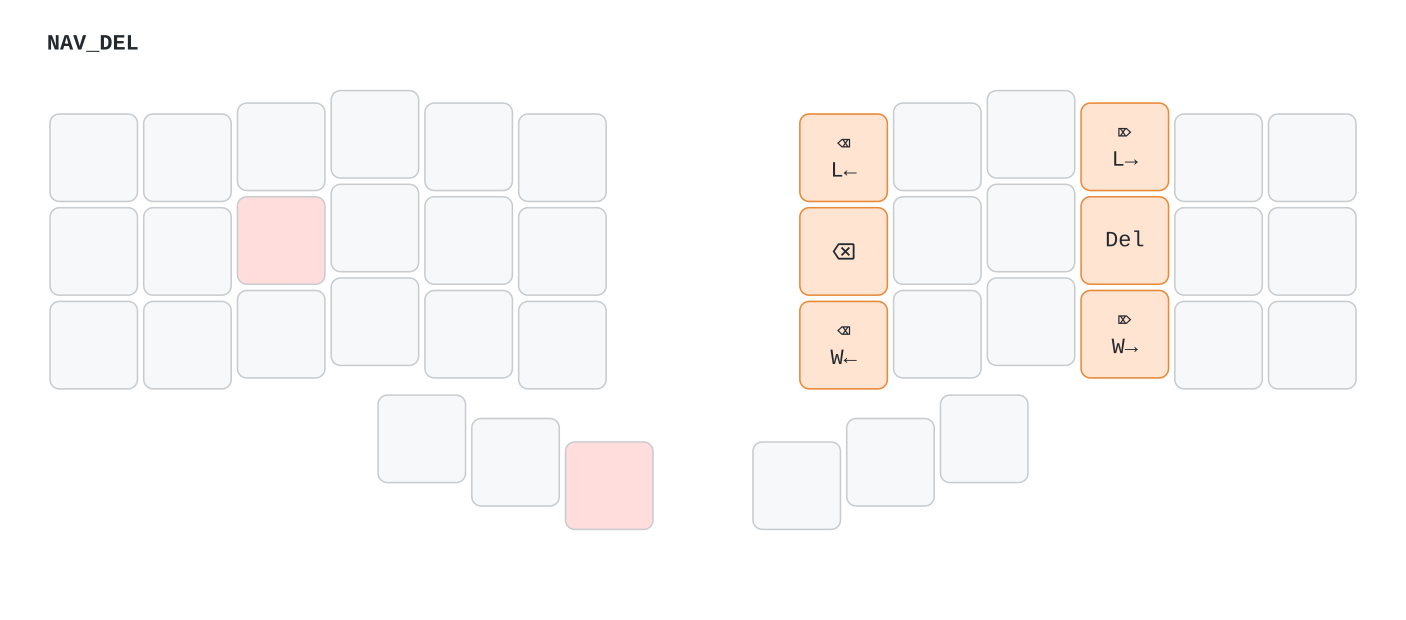
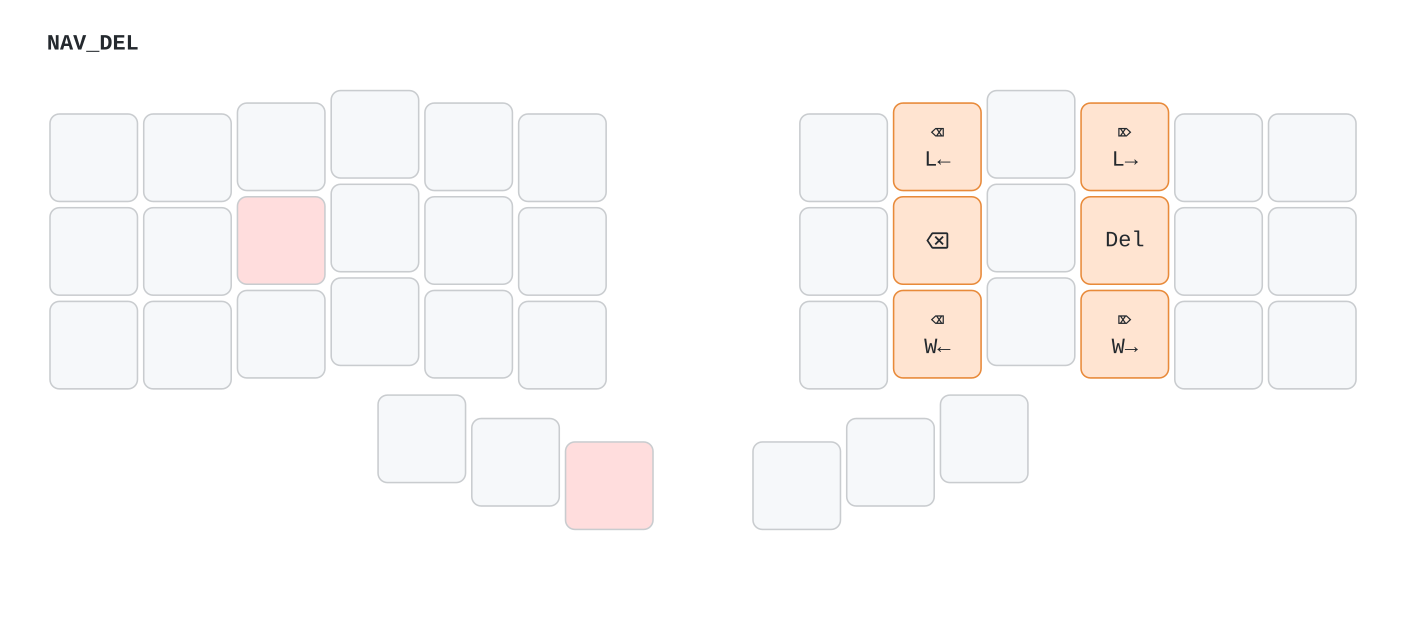
revamp the FAVS layer to reduce strain while navigating

Changed region(s): [[0.5505, 0.1532, 0.7034, 0.6435]]

diff --git a/keyboards/6x3_3/keymaps/crafted/keymap.c b/keyboards/6x3_3/keymaps/crafted/keymap.c
@@ -187,12 +187,13 @@ const uint16_t PROGMEM keymaps[][MATRIX_ROWS][MATRIX_COLS] = {
     ),
      /*
       * FAVS Layer (Layer 2) - Favorite shortcuts and navigation
+      * WASD-style inverted-T arrows; magnitude grows away from home row (line above, word below)
       * ┌───┬───┬───┬───┬───┬───┐       ┌───┬───┬───┬───┬───┬───┐
-      * │   │   │   │   │   │   │       │L← │D↓ │D↑ │L→ │   │   │
+      * │   │   │   │   │   │   │       │PgU│L← │ ↑ │L→ │   │   │
       * ├───┼───┼───┼───┼───┼───┤       ├───┼───┼───┼───┼───┼───┤
-      * │Esc│Lck│Dl⊙│G/C│Sl⊙│SWn│       │ ← │ ↓ │ ↑ │ → │Ent│Del│
+      * │Esc│Lck│Dl⊙│G/C│Sl⊙│SWn│       │PgD│ ← │ ↓ │ → │Ent│Del│
       * ├───┼───┼───┼───┼───┼───┤       ├───┼───┼───┼───┼───┼───┤
-      * │   │Udo│Cut│Cpy│Pst│   │       │W← │PgD│PgU│W→ │   │   │
+      * │   │Udo│Cut│Cpy│Pst│   │       │   │W← │   │W→ │   │   │
       * └───┴───┴───┴───┴───┴───┘       └───┴───┴───┴───┴───┴───┘
       *               ┌───┐                   ┌───┐
       *               │   ├───┐           ┌───┤   │
@@ -203,13 +204,13 @@ const uint16_t PROGMEM keymaps[][MATRIX_ROWS][MATRIX_COLS] = {
       * Lck=Layer Lock (keep FAVS without holding the thumb)
       * Sl⊙=Select latch: tap to hold Shift until FAVS is released (or tap again/Esc)
       * Dl⊙=Delete hold: momentary NAV_DEL sub-layer (hold-only, destructive op)
-      * L←=Line Begin, L→=Line End, D↑=Doc Begin, D↓=Doc End
-      * W←=Word Left, W→=Word Right
+      * L←=Line Begin, L→=Line End, W←=Word Left, W→=Word Right
+      * PgU/PgD=vertical pair on inner column (doc begin/end dropped)
       */
     [FAVS] = LAYOUT_split_3x6_3(
-        KC_NO,   KC_NO,   KC_NO,   KC_NO,   KC_NO,   KC_NO,                              SK_LINEBEG, SK_DOCEND, SK_DOCBEG, SK_LINEEND, KC_NO,   KC_NO,
-        KC_ESC,  QK_LLCK, MO(NAV_DEL), MM_GUICTRL, SEL_LATCH, SW_WIN,                    KC_LEFT, KC_DOWN, KC_UP,   KC_RGHT, KC_ENT,  KC_DEL,
-        KC_NO,   SK_UNDO, SK_CUT,  SK_COPY, SK_PSTE, KC_NO,                              SK_WORDPRV, KC_PGDN, KC_PGUP, SK_WORDNXT, KC_NO,   KC_NO,
+        KC_NO,   KC_NO,   KC_NO,   KC_NO,   KC_NO,   KC_NO,                              KC_PGUP, SK_LINEBEG, KC_UP, SK_LINEEND, KC_NO,   KC_NO,
+        KC_ESC,  QK_LLCK, MO(NAV_DEL), MM_GUICTRL, SEL_LATCH, SW_WIN,                    KC_PGDN, KC_LEFT, KC_DOWN, KC_RGHT, KC_ENT,  KC_DEL,
+        KC_NO,   SK_UNDO, SK_CUT,  SK_COPY, SK_PSTE, KC_NO,                              KC_NO,   SK_WORDPRV, KC_NO, SK_WORDNXT, KC_NO,   KC_NO,
                                             KC_NO,   KC_NO,   KC_NO,                  KC_NO,   KC_LSFT, KC_NO
     ),
      /*
@@ -240,20 +241,20 @@ const uint16_t PROGMEM keymaps[][MATRIX_ROWS][MATRIX_COLS] = {
       * NAV_DEL Layer (Layer 4) - Deletion sub-layer, active only while Dl⊙ is held on FAVS
       * Vim-like operator grammar: row = granularity, each deletion sits on the motion it consumes
       * ┌───┬───┬───┬───┬───┬───┐       ┌───┬───┬───┬───┬───┬───┐
-      * │   │   │   │   │   │   │       │DlB│ ▽ │ ▽ │DlE│   │   │  line: delete to begin/end
+      * │   │   │   │   │   │   │       │ ▽ │DlB│ ▽ │DlE│   │   │  line: delete to begin/end
       * ├───┼───┼───┼───┼───┼───┤       ├───┼───┼───┼───┼───┼───┤
-      * │ ▽ │ ✗ │(▽)│ ✗ │ ✗ │ ▽ │       │Bsp│ ▽ │ ▽ │Del│ ▽ │ ▽ │  char: backspace/delete
+      * │ ▽ │ ✗ │(▽)│ ✗ │ ✗ │ ▽ │       │ ▽ │Bsp│ ▽ │Del│ ▽ │ ▽ │  char: backspace/delete
       * ├───┼───┼───┼───┼───┼───┤       ├───┼───┼───┼───┼───┼───┤
-      * │   │ ▽ │ ▽ │ ▽ │ ▽ │   │       │DlW│ ▽ │ ▽ │Dl→│   │   │  word: delete back/forward
+      * │   │ ▽ │ ▽ │ ▽ │ ▽ │   │       │   │DlW│ ▽ │Dl→│   │   │  word: delete back/forward
       * └───┴───┴───┴───┴───┴───┘       └───┴───┴───┴───┴───┴───┘
-      * ▽=transparent (FAVS motions/clipboard stay live: navigate and Undo without releasing)
+      * ▽=transparent (FAVS motions/clipboard stay live: navigate, page, Undo without releasing)
       * ✗=blocked: Lck (would lock delete mode), G/C, Sl⊙ (delete wins over select)
       * (▽)=Dl⊙ itself (the held MO key)
       */
     [NAV_DEL] = LAYOUT_split_3x6_3(
-        _______, _______, _______, _______, _______, _______,                            SK_DELLINEBEG, _______, _______, SK_DELLINEEND, _______, _______,
-        _______, XXXXXXX, _______, XXXXXXX, XXXXXXX, _______,                            KC_BSPC, _______, _______, KC_DEL,  _______, _______,
-        _______, _______, _______, _______, _______, _______,                            SK_DELWORDPRV, _______, _______, SK_DELWORDNXT, _______, _______,
+        _______, _______, _______, _______, _______, _______,                            _______, SK_DELLINEBEG, _______, SK_DELLINEEND, _______, _______,
+        _______, XXXXXXX, _______, XXXXXXX, XXXXXXX, _______,                            _______, KC_BSPC, _______, KC_DEL,  _______, _______,
+        _______, _______, _______, _______, _______, _______,                            _______, SK_DELWORDPRV, _______, SK_DELWORDNXT, _______, _______,
                                             _______, _______, _______,                  _______, _______, _______
     )
 };